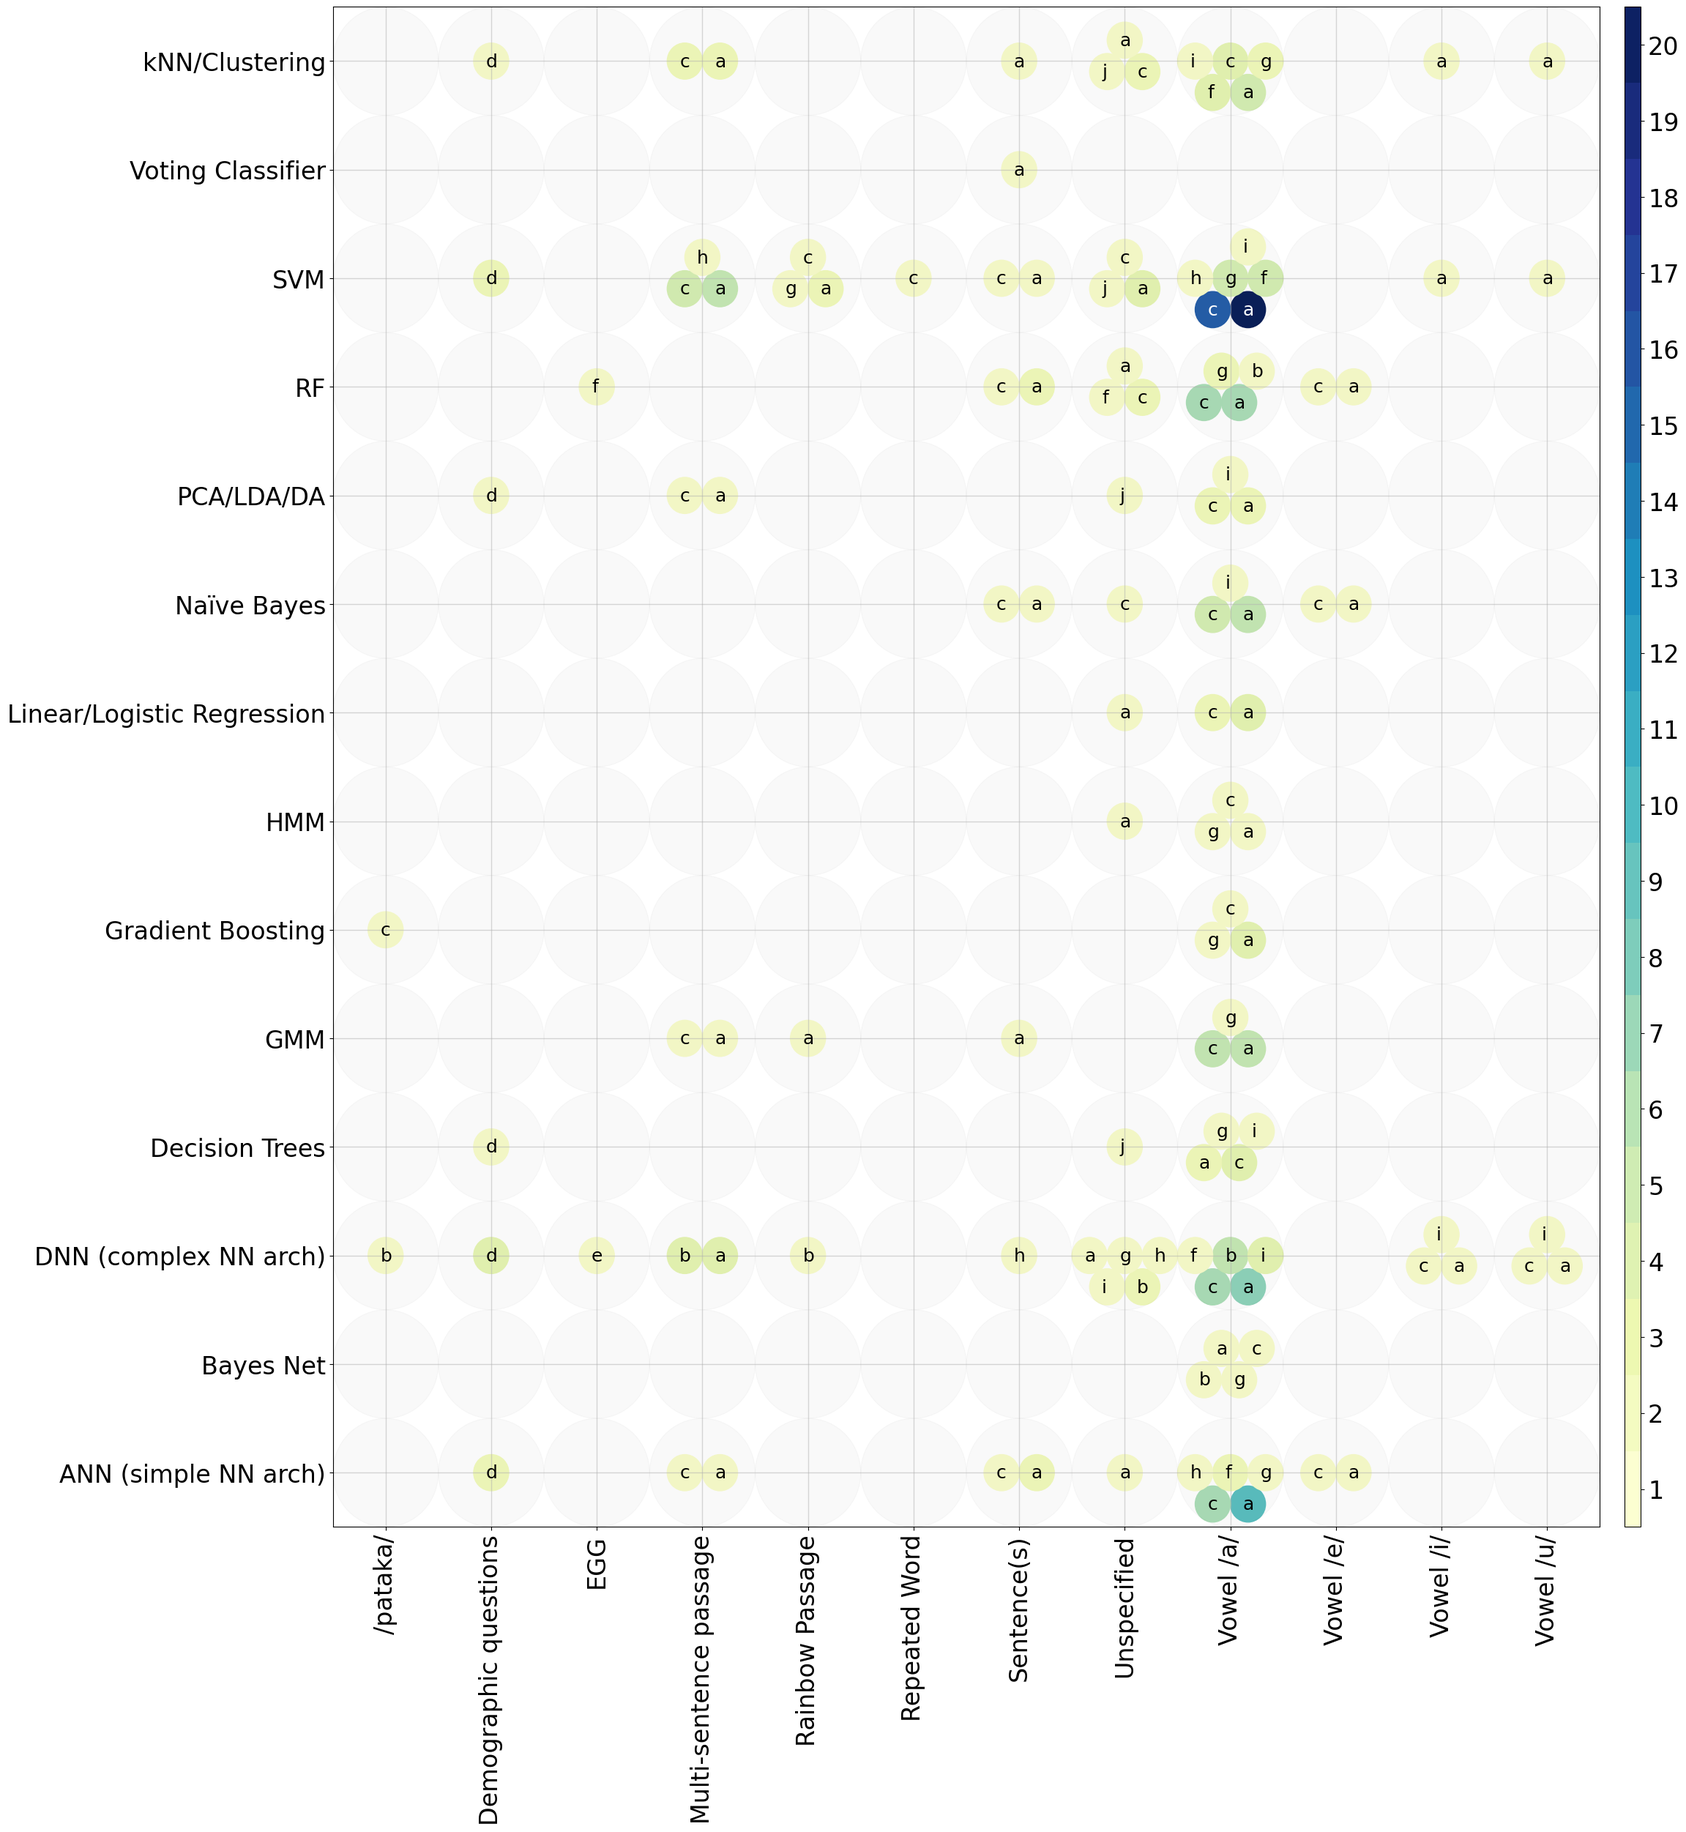
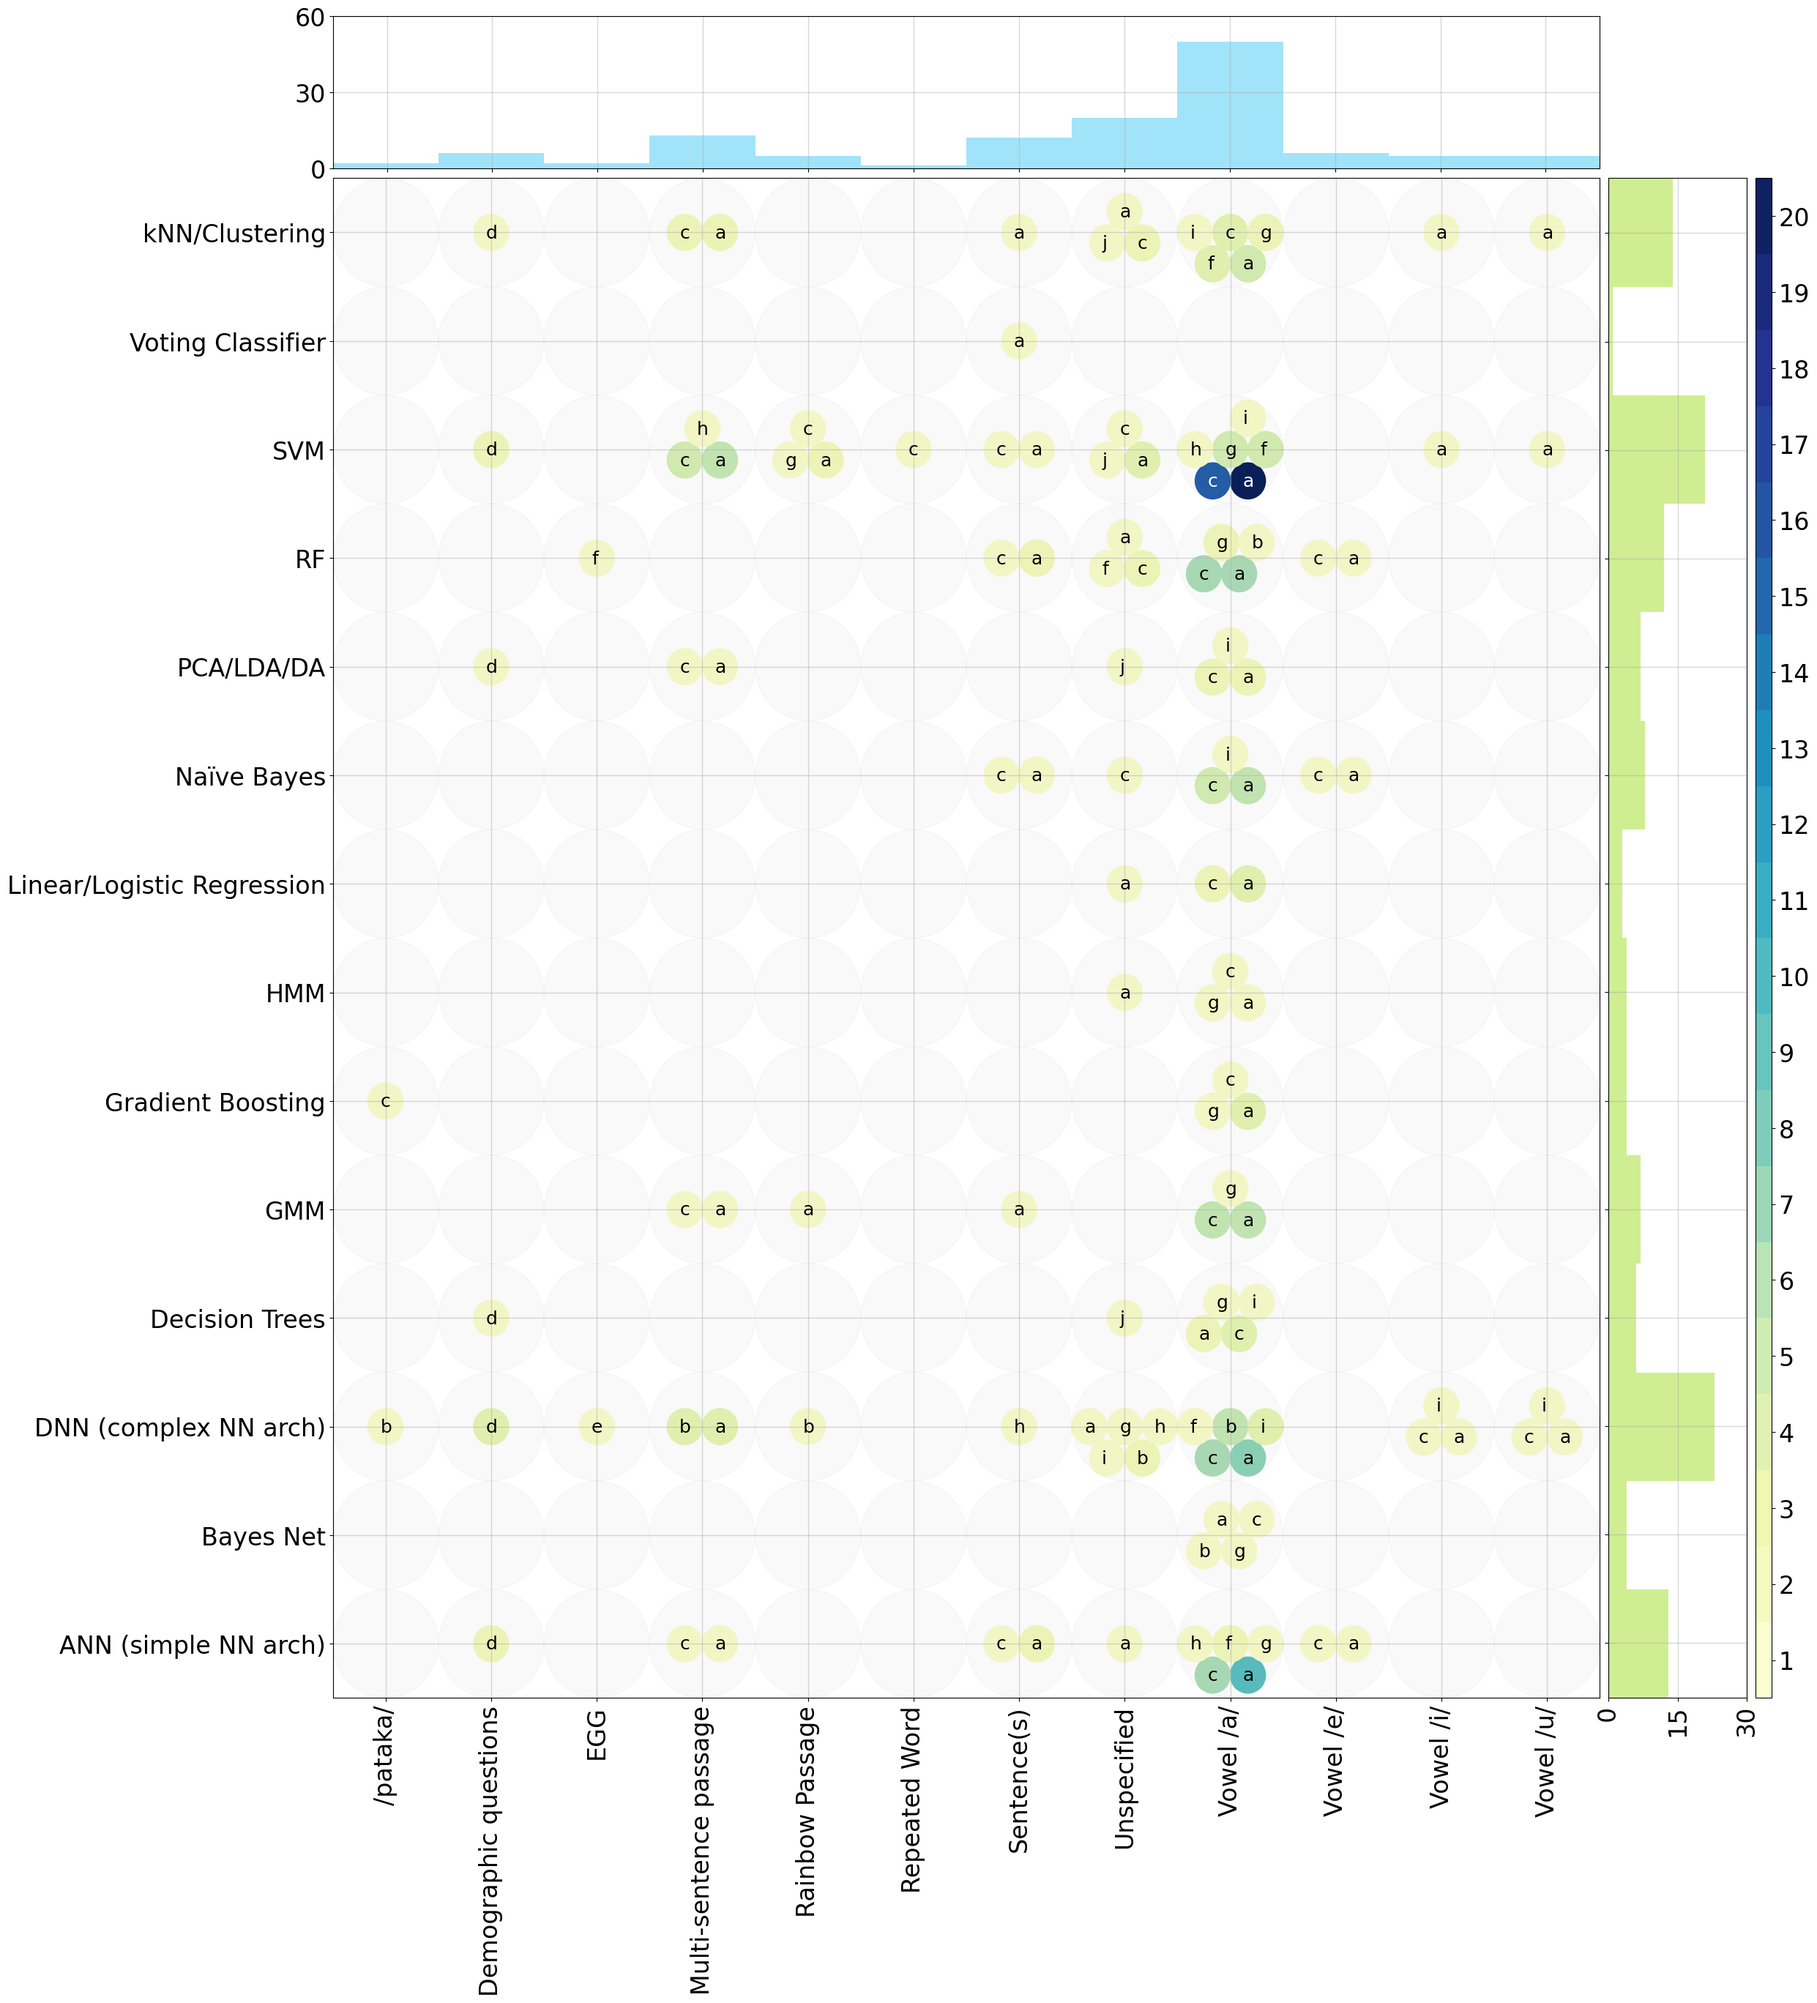
chore: add histograpms to figure

diff --git a/src/reporter.py b/src/reporter.py
@@ -203,7 +203,8 @@ class Reporter:
         #         alpha = 0.25
         #         plt.axvline(x=x, color="black", alpha=alpha, linewidth=1)
         ax.tick_params(labelsize=24)
-        c_ax = plt.axes([0.915, 0.11, 0.01, 0.77])
+        # c_ax = plt.axes([0.915, 0.11, 0.01, 0.77])
+        c_ax = plt.axes([0.995, 0.11, 0.01, 0.77])
         matplotlib.colorbar.Colorbar(
             ax=c_ax,
             cmap=cmap,
@@ -211,6 +212,63 @@ class Reporter:
             ticks=range(1, max_frequency + 1),
         )
         c_ax.tick_params(labelsize=24)
+
+        hist_x_axis = plt.axes(
+            [0.125, 0.885, 0.775, 0.077],
+        )
+        hist_x_axis.hist(
+            x=df["Input Data"],
+            bins=12,
+            orientation="vertical",
+            color="#A1E3F9",
+        )
+        hist_x_axis.set_ylim(0, 60)
+        ticks = [0, 30, 60]
+        hist_x_axis.set_yticks(ticks=ticks, labels=ticks)
+        ticks = np.linspace(0.47, 10.53, 12)
+        hist_x_axis.set_xticks(
+            ticks=ticks,
+            labels=ticks,
+            rotation=90,
+            alpha=0.0,
+        )
+        hist_x_axis.tick_params(labelsize=24)
+        hist_x_axis.margins(0)
+        hist_x_axis.grid(
+            # color='green',
+            # linestyle="--",
+            linewidth=1,
+            alpha=0.5,
+        )
+
+        hist_y_axis = plt.axes([0.905, 0.11, 0.085, 0.77])
+        hist_y_axis.hist(
+            x=df["Model"],
+            bins=14,
+            orientation="horizontal",
+            color="#CFEE91",
+        )
+
+        ticks = [0, 15, 30]
+        hist_y_axis.set_xlim(0, 30)
+        hist_y_axis.set_xticks(ticks=ticks, labels=ticks, rotation=90)
+        hist_y_axis.margins(0)
+        ticks = np.linspace(0.47, 12.53, 14)
+        hist_y_axis.set_yticks(
+            ticks=ticks,
+            labels=ticks,
+            rotation=90,
+            alpha=0.0,
+        )
+        hist_y_axis.tick_params(labelsize=24)
+        hist_y_axis.margins(0)
+        hist_y_axis.grid(
+            # color='green',
+            # linestyle="--",
+            linewidth=1,
+            alpha=0.5,
+        )
+
         fig.savefig(f"{self.__figures_path}/circles_2.png", bbox_inches="tight")
         # print(df.to_numpy())
 
